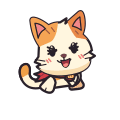
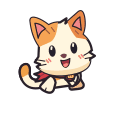
fix(DP-260): 單獨匯出柑橘貓各表情，避免圖層疊影

diff --git a/docs/pet-concepts/2026-11-15/manga-cat/draw.py b/docs/pet-concepts/2026-11-15/manga-cat/draw.py
@@ -74,10 +74,14 @@ def frame(source, pose, index, count):
         happy = True
 
     set_part('root', 60, 106, lean, sx=.84, sy=.84, dx=3, dy=lift * .78 - (4 if pose == 'sleep' else 0))
-    for name in ('eyes', 'eye-closed', 'eye-squint'):
-        parts[name].set('visibility', 'visible' if name == eyes else 'hidden')
-    parts['mouth'].set('visibility', 'hidden' if happy else 'visible')
-    parts['smile'].set('visibility', 'visible' if happy else 'hidden')
+    # Exclude inactive face layers from the output tree. Inkscape's CLI
+    # rasterizer can still composite children of visibility:hidden groups.
+    visible = {eyes, 'smile' if happy else 'mouth'}
+    for name in ('eyes', 'eye-closed', 'eye-squint', 'mouth', 'smile'):
+        if name in visible:
+            parts[name].attrib.pop('style', None)
+        else:
+            parts['gaze'].remove(parts[name])
     return svg
 
 
